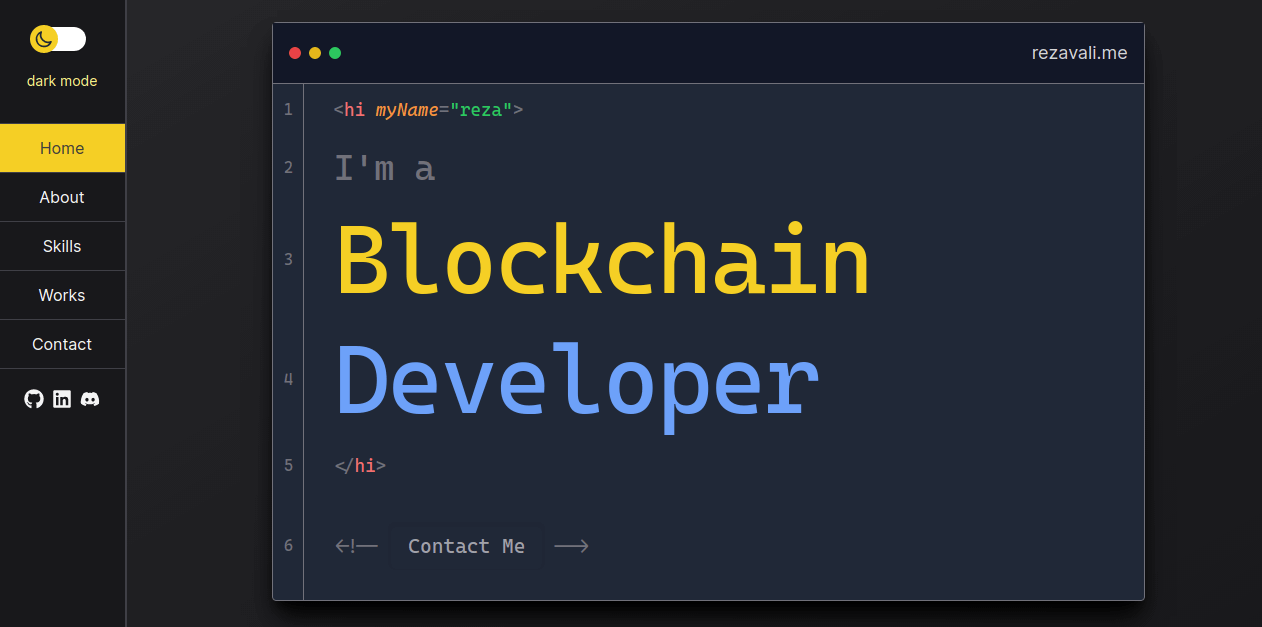
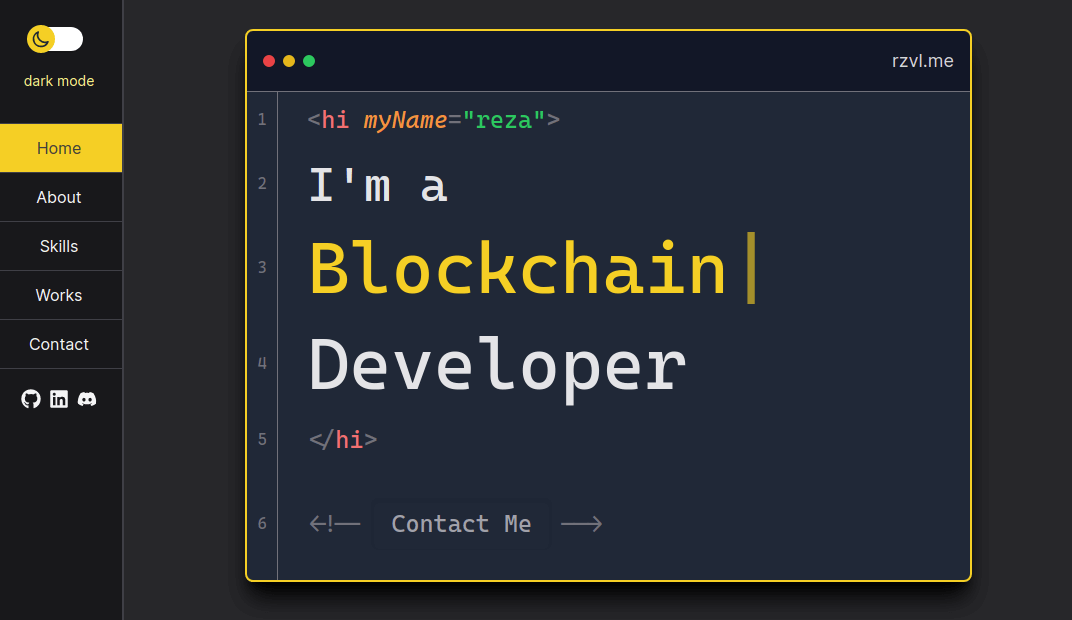
add mobile navbar and final touches

Changed region(s): [[0.2155, 0.0306, 0.9235, 0.9806], [0.0, 0.0, 0.1231, 1.0], [0.5233, 0.8274, 0.5541, 0.8581]]

diff --git a/src/Pages/Home.js b/src/Pages/Home.js
@@ -3,26 +3,26 @@ import BorderlessBtn from '../Components/BorderlessBtn';
 
 const Home = () => {
   return (
-    <div className="min-h-screen w-full lg:pl-32 bg-gradient-to-tl from-rose-100Name to-teal-100 dark:from-zinc-900 dark:to-zinc-800">
+    <div className="min-h-screen w-full lg:pl-32 bg-zinc-100 dark:bg-zinc-800">
       <div className="container mx-auto py-20">
         {/* Code Editor Window */}
-        <div className="w-5/6 md:w-4/5 lg:w-3/4 mx-auto font-mono border border-zinc-400 dark:border-zinc-500 rounded bg-zinc-200 dark:bg-gray-800 shadow-2xl dark:shadow-xl dark:shadow-black">
+        <div className="w-5/6 md:w-4/5 lg:w-3/4 mx-auto font-mono border-2 border-rose-500 dark:border-yellow-400 rounded-lg bg-zinc-200 dark:bg-gray-800 shadow-2xl dark:shadow-xl dark:shadow-black">
           {/* editor's title bar */}
-          <div className="p-4 flex items-center justify-between relative bg-zinc-300 dark:bg-gray-900 border-b border-zinc-400 dark:border-zinc-500">
+          <div className="p-4 flex items-center justify-between relative bg-zinc-300 dark:bg-gray-900 border-b border-zinc-400 dark:border-zinc-500 rounded-t-lg">
             <div className="flex space-x-2">
               <div className="w-3 h-3 rounded-full bg-red-500"></div>
               <div className="w-3 h-3 rounded-full bg-yellow-500"></div>
               <div className="w-3 h-3 rounded-full bg-green-500"></div>
             </div>
             <h3 className="font-sans text-lg text-zinc-500 dark:text-zinc-300">
-              rezavali.me
+              rzvl.me
             </h3>
           </div>
           {/* editor's content */}
           <div className="grid grid-cols-[30px_30px_auto] w-full">
             <div className="mx-auto my-auto text-zinc-500">1</div>
             <div className="w-[1px] h-full row-span-6 bg-zinc-400 dark:bg-zinc-500"></div>
-            <div className="py-3 text-lg">
+            <div className="py-3 2xl:py-5 text-lg lg:text-2xl">
               <span className="text-zinc-500">&lt;</span>
               <span className="text-red-400">hi </span>
               <span className="text-orange-400 italic">myName</span>
@@ -32,12 +32,12 @@ const Home = () => {
             </div>
 
             <div className="mx-auto my-auto text-zinc-500">2</div>
-            <div className="py-3 text-4xl tracking-tight text-zinc-500">
+            <div className="py-3 2xl:py-5 text-2xl xs:text-3xl lg:text-5xl text-zinc-600 dark:text-zinc-200">
               I'm a
             </div>
 
             <div className="mx-auto my-auto text-zinc-500">3</div>
-            <div className="py-3 text-6xl sm:text-7xl lg:text-8xl tracking-tight text-rose-500 dark:text-yellow-400">
+            <div className="py-3 2xl:py-5 text-3xl xs:text-5xl sm:text-7xl text-rose-500 dark:text-yellow-400">
               <Typewriter
                 options={{
                   strings: ['Front-End', 'Blockchain', 'React'],
@@ -48,19 +48,19 @@ const Home = () => {
             </div>
 
             <div className="mx-auto my-auto text-zinc-500">4</div>
-            <div className="py-3 text-6xl sm:text-7xl lg:text-8xl tracking-tight text-teal-500 dark:text-blue-400">
+            <div className="py-3 2xl:py-5 text-3xl xs:text-5xl sm:text-7xl text-zinc-600 dark:text-zinc-200">
               Developer
             </div>
 
             <div className="mx-auto my-auto text-zinc-500">5</div>
-            <div className="py-3 text-lg">
+            <div className="py-3 2xl:py-5 text-lg lg:text-2xl">
               <span className="text-zinc-500">&lt;/</span>
               <span className="text-red-400">hi</span>
               <span className="text-zinc-500">&gt;</span>
             </div>
 
             <div className="mx-auto my-auto text-zinc-500">6</div>
-            <div className="py-10 text-xl flex flex-row flex-wrap gap-2 items-center">
+            <div className="py-10 text-sm xs:text-xl md:text-2xl flex flex-row flex-wrap gap-2 items-center">
               <span className="text-zinc-500">&lt;!--</span>
               <BorderlessBtn btnText="Contact Me" link="contact" />
               <span className="text-zinc-500">--&gt;</span>

diff --git a/src/Components/ProjectCard.js b/src/Components/ProjectCard.js
@@ -23,32 +23,32 @@ const ProjectCard = ({
 
   return (
     <div className="px-4 pb-12 mx-auto sm:max-w-xl md:max-w-full lg:max-w-screen-xl md:px-24 lg:px-8 lg:pb-16">
-      <div className="flex flex-col max-w-screen-lg overflow-hidden bg-zinc-50 dark:bg-zinc-900 border rounded-lg shadow-xl dark:shadow-black lg:flex-row sm:mx-auto">
+      <div className="flex flex-col max-w-screen-lg overflow-hidden bg-zinc-50 dark:bg-zinc-900 border-2 border-rose-500 dark:border-yellow-400 rounded-lg shadow-xl dark:shadow-black lg:flex-row sm:mx-auto">
         <div className="relative lg:w-1/2">
           <img
             src={src}
             alt={alt}
-            className="object-cover w-full lg:absolute h-80 lg:h-full"
+            className="object-fill lg:object-cover object-left w-full lg:absolute lg:h-full"
           />
           <svg
-            className="absolute top-0 right-0 hidden h-full text-zinc-50 dark:text-zinc-900 lg:inline-block"
+            className="absolute top-0 right-0 hidden h-full text-zinc-50 dark:text-zinc-800 lg:inline-block"
             viewBox="0 0 20 104"
             fill="currentColor"
           >
             <polygon points="17.3036738 5.68434189e-14 20 5.68434189e-14 20 104 0.824555778 104"></polygon>
           </svg>
         </div>
-        <div className="flex flex-col justify-center p-8 bg-zinc-50 dark:bg-zinc-900 lg:p-16 lg:pl-10 lg:w-1/2">
+        <div className="flex flex-col justify-center p-8 bg-zinc-50 dark:bg-zinc-800 lg:p-16 lg:pl-10 lg:w-1/2">
           <div>
             <ul>{projectTags}</ul>
           </div>
-          <h5 className="mb-3 text-3xl font-extrabold leading-none text-zinc-800 dark:text-zinc-200 sm:text-4xl">
+          <h5 className="mb-3 text-3xl font-extrabold leading-10 text-zinc-800 dark:text-zinc-200 sm:text-4xl">
             {title}
           </h5>
           <p className="py-5 mb-5 text-zinc-800 dark:text-zinc-300">
             {description}
           </p>
-          <div className="flex items-center">
+          <div className="flex flex-wrap items-center gap-y-5">
             <a
               href={siteUrl}
               target="_blank"
@@ -68,7 +68,7 @@ const ProjectCard = ({
               aria-label=""
               className={classNames(
                 hideSourceUrl === 'true' ? 'hidden' : 'inline-flex',
-                'items-center text-lg underline transition-colors duration-200 text-deep-purple-accent-400 text-zinc-800 dark:text-zinc-100 hover:text-rose-600 dark:hover:text-yellow-400'
+                'items-center text-lg underline transition-colors duration-300 text-deep-purple-accent-400 text-zinc-800 dark:text-zinc-100 hover:text-rose-600 dark:hover:text-yellow-400'
               )}
             >
               View Source

diff --git a/src/Components/BorderlessBtn.js b/src/Components/BorderlessBtn.js
@@ -8,10 +8,10 @@ const BorderlessBtn = ({ btnText, link }) => {
         to={link}
         className="relative px-5 py-3 overflow-hidden font-medium text-zinc-400 rounded-lg shadow-inner group"
       >
-        <span className="absolute top-0 left-0 w-0 h-0 transition-all duration-200 border-t-2 border-teal-500 dark:border-blue-400 group-hover:w-full ease"></span>
-        <span className="absolute bottom-0 right-0 w-0 h-0 transition-all duration-200 border-b-2 border-teal-500 dark:border-blue-400 group-hover:w-full ease"></span>
-        <span className="absolute top-0 left-0 w-full h-0 transition-all duration-300 delay-200 bg-teal-500 dark:bg-blue-400 group-hover:h-full ease"></span>
-        <span className="absolute bottom-0 left-0 w-full h-0 transition-all duration-300 delay-200 bg-teal-500 dark:bg-blue-400 group-hover:h-full ease"></span>
+        <span className="absolute top-0 left-0 w-0 h-0 transition-all duration-200 border-t-2 border-zinc-500 dark:border-zinc-200 group-hover:w-full ease"></span>
+        <span className="absolute bottom-0 right-0 w-0 h-0 transition-all duration-200 border-b-2 border-zinc-500 dark:border-zinc-200 group-hover:w-full ease"></span>
+        <span className="absolute top-0 left-0 w-full h-0 transition-all duration-300 delay-200 bg-zinc-500 dark:bg-zinc-200 group-hover:h-full ease"></span>
+        <span className="absolute bottom-0 left-0 w-full h-0 transition-all duration-300 delay-200 bg-zinc-500 dark:bg-zinc-200 group-hover:h-full ease"></span>
         <span className="absolute inset-0 w-full h-full duration-300 delay-300 bg-red-600 dark:bg-yellow-400 opacity-0 group-hover:opacity-100"></span>
         <span className="relative transition-colors duration-300 delay-200 group-hover:text-zinc-100 dark:group-hover:text-zinc-600 ease">
           {btnText}

diff --git a/src/Components/Navigation.js b/src/Components/Navigation.js
@@ -1,10 +1,11 @@
 import { NavLink } from 'react-router-dom';
 
-const Navigation = () => {
+const Navigation = ({ isMobile, closeMobileMenu }) => {
   return (
     <nav className="flex flex-col items-center text-zinc-800 dark:text-zinc-100">
       <NavLink
         to="/"
+        onClick={() => isMobile && closeMobileMenu()}
         className="w-full text-center py-3 border-y border-zinc-400 dark:border-zinc-700 hover:text-rose-700 dark:hover:text-yellow-300 transition duration-500"
       >
         Home
@@ -12,6 +13,7 @@ const Navigation = () => {
 
       <NavLink
         to="about"
+        onClick={() => isMobile && closeMobileMenu()}
         className="w-full text-center py-3 border-b border-zinc-400 dark:border-zinc-700 hover:text-rose-700 dark:hover:text-yellow-300 transition duration-500"
       >
         About
@@ -19,6 +21,7 @@ const Navigation = () => {
 
       <NavLink
         to="skills"
+        onClick={() => isMobile && closeMobileMenu()}
         className="w-full text-center py-3 border-b border-zinc-400 dark:border-zinc-700 hover:text-rose-700 dark:hover:text-yellow-300 transition duration-500"
       >
         Skills
@@ -26,6 +29,7 @@ const Navigation = () => {
 
       <NavLink
         to="works"
+        onClick={() => isMobile && closeMobileMenu()}
         className="w-full text-center py-3 border-b border-zinc-400 dark:border-zinc-700 hover:text-rose-700 dark:hover:text-yellow-300 transition duration-500"
       >
         Works
@@ -33,6 +37,7 @@ const Navigation = () => {
 
       <NavLink
         to="contact"
+        onClick={() => isMobile && closeMobileMenu()}
         className="w-full text-center py-3 border-b border-zinc-400 dark:border-zinc-700 hover:text-rose-700 dark:hover:text-yellow-300 transition duration-500"
       >
         Contact

diff --git a/src/Pages/About.js b/src/Pages/About.js
@@ -10,8 +10,8 @@ const About = () => {
         <PageTitle title={'About Me'} bg={'About'} />
 
         {/* imgae and description section */}
-        <div className="w-full flex flex-col lg:flex-row justify-center gap-20 pb-10">
-          <div className="relative w-96 aspect-auto">
+        <div className="w-full flex flex-col lg:flex-row justify-center gap-20 pb-10 2xl:pb-20">
+          <div className="relative xs:w-96 mx-auto lg:mx-0">
             {/* left column - image */}
             <div className="group">
               <img
@@ -20,10 +20,10 @@ const About = () => {
                 srcSet={`${reza400}, ${reza800} 2x`}
                 className="w-80 h-96 z-10 relative group-hover:grayscale transition-all duration-1000"
               />
-              <span className="block box-content absolute w-80 h-96 top-10 group-hover:-top-2 left-10 group-hover:-left-2 border-8 border-rose-500 dark:border-yellow-400 group-hover:border-zinc-400 transition-all duration-1000"></span>
+              <span className="hidden xs:block box-content absolute w-80 h-96 top-10 group-hover:-top-2 left-10 group-hover:-left-2 border-8 border-rose-500 dark:border-yellow-400 group-hover:border-zinc-400 transition-all duration-1000"></span>
             </div>
           </div>
-          <div className="w-auto lg:w-1/2">
+          <div className="w-auto lg:w-1/2 xs:pt-12 lg:pt-0">
             {/* right column - text */}
             <div className="text-zinc-600 dark:text-zinc-200 space-y-3">
               <p className="text-2xl">

diff --git a/src/Pages/Works.js b/src/Pages/Works.js
@@ -3,17 +3,15 @@ import ProjectCard from '../Components/ProjectCard';
 import PortfolioImg from '../img/portfolio.png';
 
 const Works = () => {
-  const portfolioDesc = () => {
-    return (
-      <>
-        This is a <span className="font-bold">portfolio website</span> (the
-        website you're browsing now) which I developed to showcase my recent
-        works and provide some infomation about me, myself, and I...{' '}
-        <span className="italic">React</span> was used for developing and{' '}
-        <span className="italic">Tailwind CSS</span> for styling the site.
-      </>
-    );
-  };
+  const portfolioDesc = (
+    <>
+      This is a <span className="font-bold">portfolio website</span> (the
+      website you're browsing now) which I developed to showcase my recent works
+      and provide some infomation about me, myself, and I...{' '}
+      <span className="italic">React</span> was used for developing and{' '}
+      <span className="italic">Tailwind CSS</span> for styling the site.
+    </>
+  );
 
   return (
     <div className="min-h-screen w-full lg:pl-32 bg-zinc-100 dark:bg-zinc-800">
@@ -24,7 +22,7 @@ const Works = () => {
           alt={'my portfolio website'}
           tags={['react', 'tailwind']}
           title={'My Portfolio Site'}
-          description={portfolioDesc()}
+          description={portfolioDesc}
           siteUrl={'/'}
           sourceUrl={'https://github.com/rzvl/portfolio'}
           hideSourceUrl={'false'}

diff --git a/src/Components/Navbar.js b/src/Components/Navbar.js
@@ -1,15 +1,39 @@
 import { MenuIcon } from '@heroicons/react/outline';
+import { XIcon } from '@heroicons/react/outline';
+import { useState } from 'react';
 import DarkModeSwitch from './DarkModeSwitch';
+import Navigation from './Navigation';
 
 const Navbar = () => {
+  const [open, setOpen] = useState(false);
+
+  const handleClick = () => {
+    setOpen(!open);
+  };
+
   return (
-    <div className="lg:hidden flex justify-between w-full px-10 py-5 bg-red-100 dark:bg-zinc-900 shadow">
+    <div className="lg:hidden flex justify-between items-center w-full h-14 px-10 bg-red-100 dark:bg-zinc-900 shadow">
       <div>
         <DarkModeSwitch />
       </div>
       <div>
-        <MenuIcon className="h-6 w-6 text-zinc-900 dark:text-zinc-100" />
+        {open ? (
+          <XIcon
+            className="h-6 w-6 cursor-pointer text-zinc-900 dark:text-zinc-100"
+            onClick={handleClick}
+          />
+        ) : (
+          <MenuIcon
+            className="h-6 w-6 cursor-pointer text-zinc-900 dark:text-zinc-100"
+            onClick={handleClick}
+          />
+        )}
       </div>
+      {open && (
+        <div className="absolute w-full top-14 right-0 bg-zinc-100 dark:bg-zinc-800 z-30">
+          <Navigation isMobile={true} closeMobileMenu={handleClick} />
+        </div>
+      )}
     </div>
   );
 };

diff --git a/src/Components/ProgressBar.js b/src/Components/ProgressBar.js
@@ -12,10 +12,10 @@ const ProgressBar = ({ progress }) => {
     <div className="w-full bg-gray-200 rounded-md dark:bg-gray-700 p-1">
       <div className="bar relative bg-rose-500 dark:bg-yellow-400 h-2.5 rounded-sm w-0 transition-all ease-out duration-1000">
         {/* tooltip */}
-        <div className=" absolute -right-2 -top-10 w-auto px-4 py-2 text-gray-500 transform translate-x-[35%] bg-zinc-800 dark:bg-zinc-100 rounded">
-          <div className="relative flex text-xs text-zinc-100 dark:text-zinc-800 font-bold items-center justify-center w-full h-full leading-none">
+        <div className=" absolute -right-2 -top-10 w-auto px-4 py-2 text-gray-500 transform translate-x-[35%] bg-zinc-800 dark:bg-zinc-100 opacity-50 xs:opacity-100 rounded">
+          <div className="relative flex text-xs text-zinc-100 dark:text-zinc-800 xs:font-bold items-center justify-center w-full h-full leading-none">
             {progress}
-            <div className="absolute after bottom-0 w-4 h-4 transform rotate-45 translate-y-3 bg-zinc-800 dark:bg-zinc-100 -z-10"></div>
+            <div className="absolute after bottom-0 w-4 h-4 transform rotate-45 translate-y-3 bg-zinc-800 dark:bg-zinc-100 opacity-50 xs:opacity-100 -z-10"></div>
           </div>
         </div>
       </div>

diff --git a/src/Components/Sidebar.js b/src/Components/Sidebar.js
@@ -15,7 +15,7 @@ const Sidebar = () => {
   };
 
   return (
-    <div className="hidden lg:block fixed w-32 h-screen bg-rose-100 dark:bg-zinc-900 border-r-2 border-zinc-200 dark:border-zinc-700 shadow-zinc-900">
+    <div className="hidden lg:block z-10 fixed w-32 h-screen bg-rose-100 dark:bg-zinc-900 border-r-2 border-zinc-200 dark:border-zinc-700 shadow-zinc-900">
       <div className="flex flex-col justify-center items-center h-32">
         <DarkModeSwitch darkOrLightTextSetter={darkOrLightTextSetter} />
         <div className="text-sm text-rose-400 dark:text-yellow-200 pt-5">

diff --git a/src/Components/ProgressBarWithTitle.js b/src/Components/ProgressBarWithTitle.js
@@ -4,7 +4,7 @@ const ProgressBarWithTitle = ({ title, progress }) => {
   return (
     <div className="max-w-[750px] space-y-12 pt-6">
       <div>
-        <h3 className="p-2 text-2xl font-bold text-zinc-700 dark:text-zinc-100">
+        <h3 className="p-2 text-base xs:text-2xl xs:font-bold text-zinc-700 dark:text-zinc-100">
           {title}
         </h3>
         <ProgressBar progress={progress} />

diff --git a/src/Pages/Contact.js b/src/Pages/Contact.js
@@ -46,7 +46,7 @@ const Contact = () => {
                       className="flex-shrink-0 h-6 w-6 text-zinc-400 dark:text-zinc-200"
                       aria-hidden="true"
                     />
-                    <span className="ml-3">admin@rezavali.me</span>
+                    <span className="ml-3">admin@rzvl.me</span>
                   </dd>
                 </div>
               </dl>

diff --git a/tailwind.config.js b/tailwind.config.js
@@ -4,6 +4,10 @@ module.exports = {
   darkMode: 'class',
   content: ['./src/**/*.{js,jsx,ts,tsx}'],
   theme: {
+    screens: {
+      xs: '475px',
+      ...defaultTheme.screens,
+    },
     extend: {
       fontFamily: {
         sans: ['Inter var', ...defaultTheme.fontFamily.sans],
